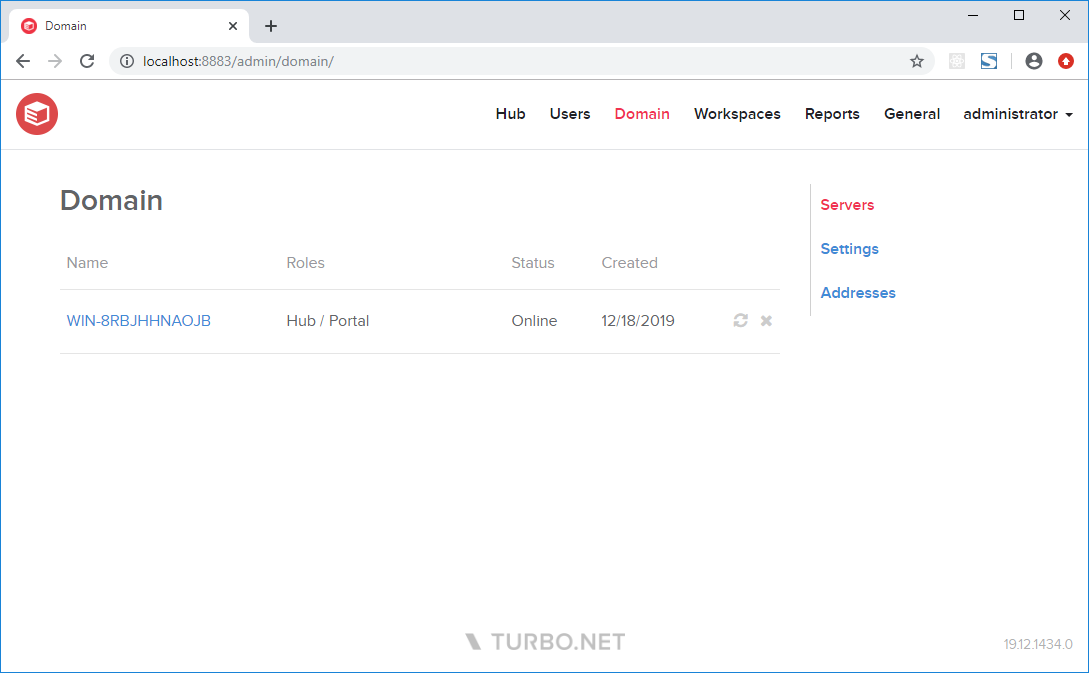
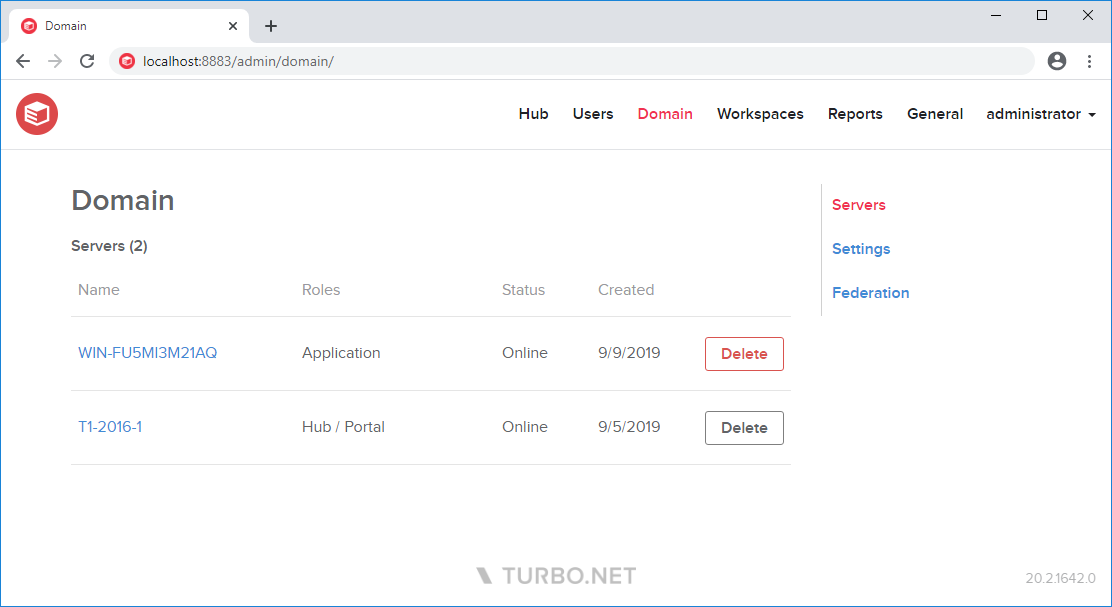
SRV-3026: Update federation UI screenshots

diff --git a/server/hub_server/administration.md b/server/hub_server/administration.md
@@ -89,7 +89,7 @@ On the repository edit page, a repository display name can be modified. This sho
 With the Import Repository feature, you can import repositories from an external Hub server, such as the Turbo.net Hub, into your local Turbo Server Hub. To import a repository, click the **Add Repository** dropdown on the Hub page and click **Import Repository**. The import page has the following options available:
 
 - **Hub Source URL**: The Hub server from which the repository will be imported. By default only Turbo.net is available, however if you have domain federation enabled the source domain will also be available.
-- **API Key**: The API key is used to access private repositories from the source Hub. This field is not required for public repositories.
+- **API Key**: The API key used to access private repositories from the source Hub. This field is not required for public repositories.
 - **Repository Id**: The name of the external repository. For example, `mozilla/firefox`.
 - **Revision History Length**: The number of application revisions to pull from the remote repository. The default value is 1 revision. 
 
@@ -339,7 +339,7 @@ The **Federation** page allows you to configure federation across multiple domai
 
 - **Source Domain URL**: A federation source URL from which domain resources will be replicated.
 
-- **API Key**: The API key is used to access federation resources from the federation source. This API key must be configured as a system-level key on the source server. See [Managing API Keys](/docs/server/hub-server/administration#managing-hub-managing-api-keys) for information on configured API keys.
+- **System API Key**: The API key used to access federation resources from the federation source. This API key must be configured as a system-level key on the source server. See [Managing API Keys](/docs/server/hub-server/administration#managing-hub-managing-api-keys) for information on configured API keys.
 
 - **Default Synchronization Frequency**: The frequency at which this server will check the federation source for updates.
 

diff --git a/server/hub_server/getting_started.md b/server/hub_server/getting_started.md
@@ -101,7 +101,7 @@ The Turbo Server installation automatically creates firewall rules for the selec
 <br/>
 
 
-If your Turbo Server is running behind an external firewall that restricts these ports, you may need to configure the external firewall manually. For instructions on opening ports or for recommendations on how to best secure Turbo Server, refer to [Configure Turbo Server Security](/docs/server/hub-server/advanced-topics#configure-turbo-server-security).
+If your Turbo Server is running behind an external firewall that restricts these ports, you may need to configure the external firewall manually. For instructions on opening ports and for recommendations on how to best secure Turbo Server, refer to [Configure Turbo Server Security](/docs/server/hub-server/advanced-topics#configure-turbo-server-security).
 
 ### Setup
 
